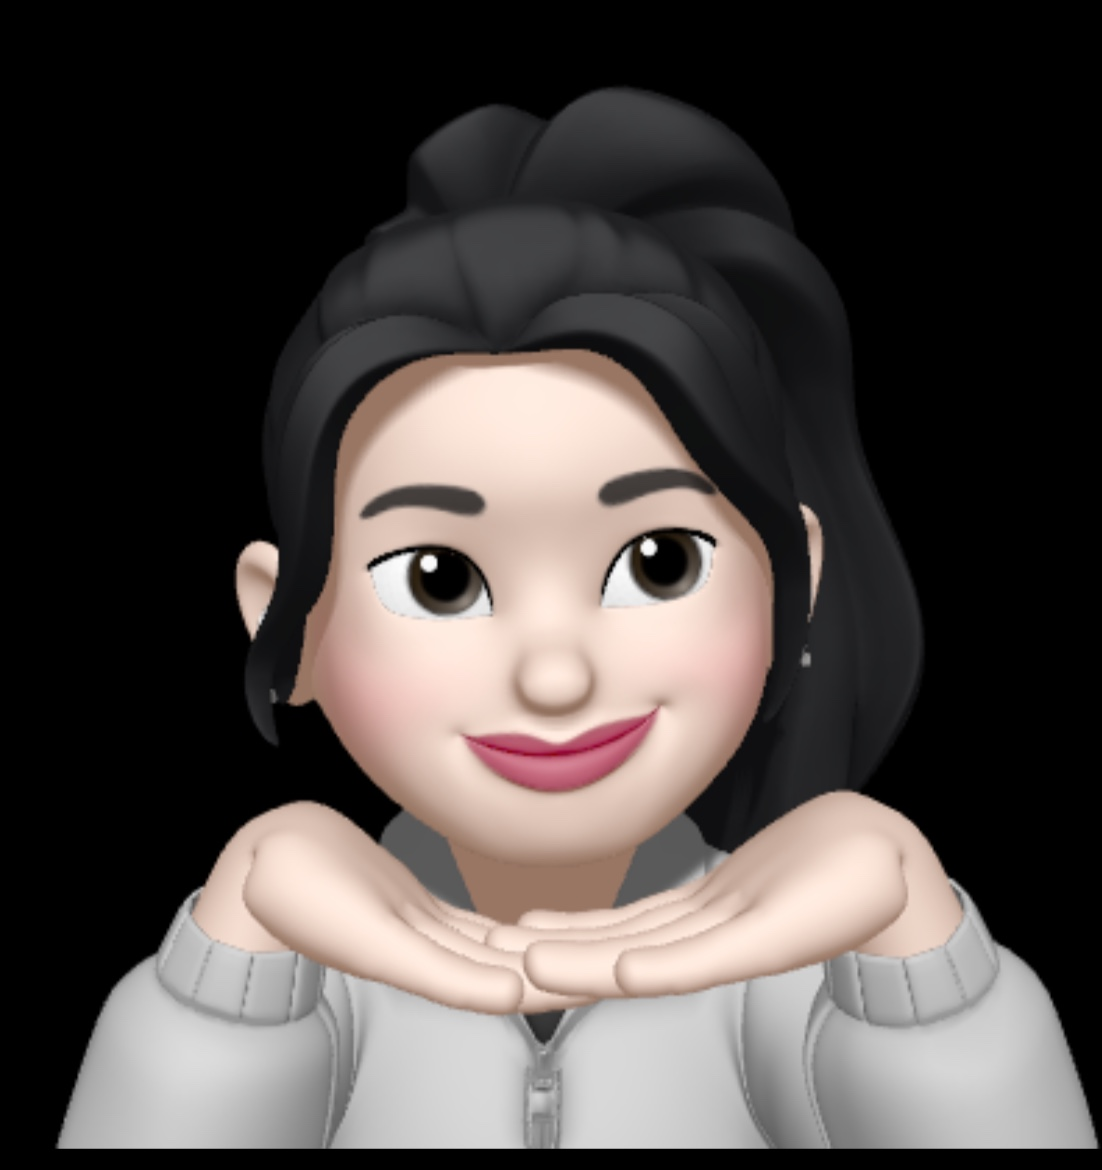
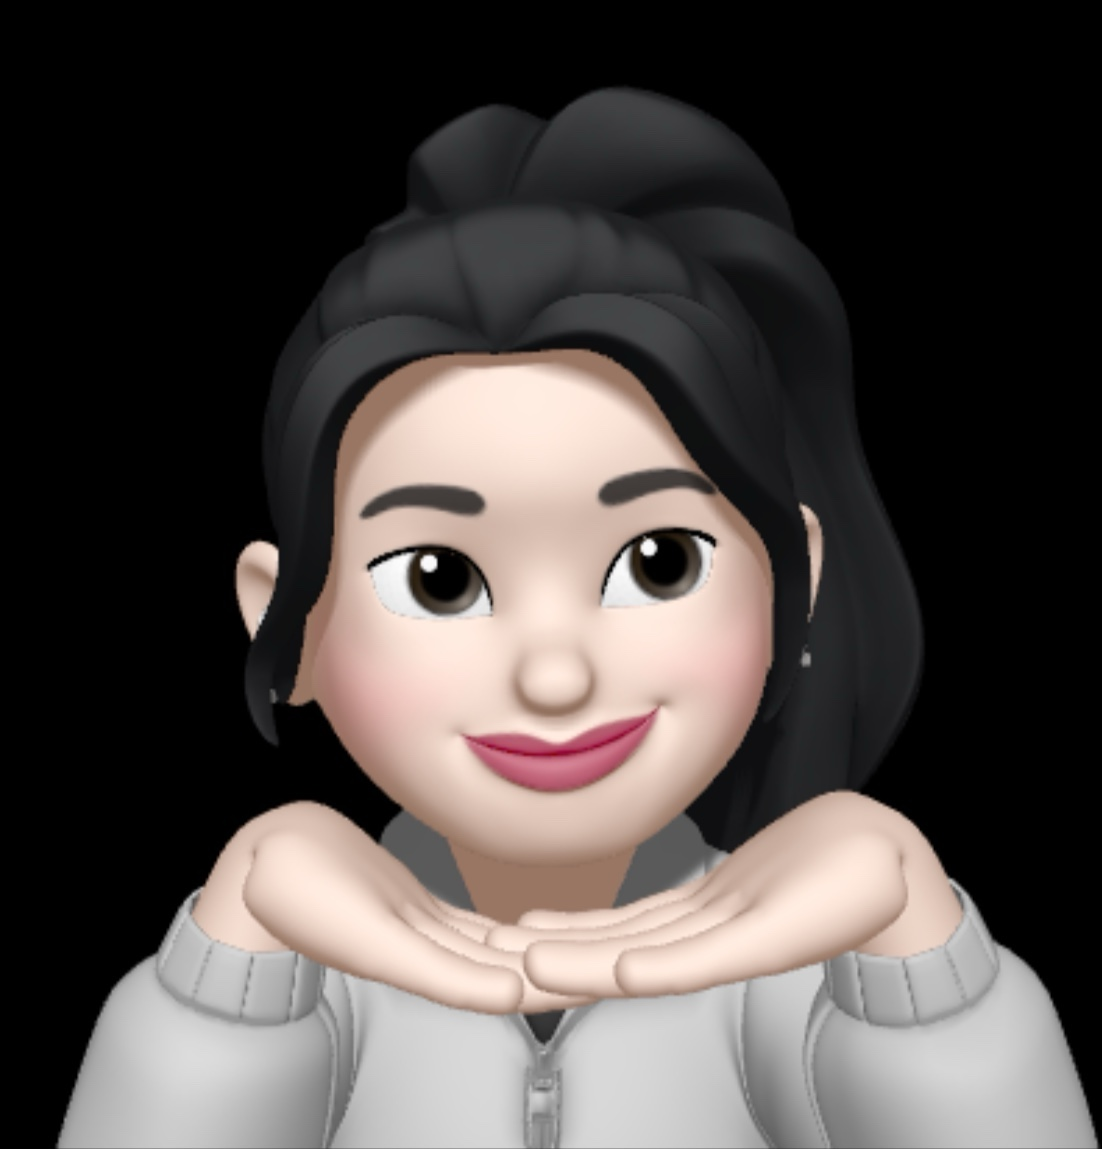
색 수정

diff --git a/sieun/sieun-style.css b/sieun/sieun-style.css
@@ -17,6 +17,8 @@
   * {
     font-family: "SUIT-Regular";
   }
+
+
   
   body {
     padding-top: 150px;
@@ -47,13 +49,18 @@
   
   .list-link {
     margin-left: 70px;
+    text-decoration: none; /* 밑줄 제거 */
+    transition: color 0.3s ease; /* 색상 전환 효과 추가 */
   }
   
   .list-link:hover {
-    color: black;
-    border-bottom: 2px solid black;
-
+    color: #adb4c4;
+    border-bottom: none;
   }
+
+
+
+  
   
   .btn-main {
     padding: 8px 23px;
@@ -77,7 +84,7 @@
     height: 5px;
     bottom: 0;
     left: 0;
-    background-color: #508C9B;
+    background-color: #939185;
   }
   
   .bar-ing {
@@ -88,24 +95,96 @@
     background-color: #201E43;
   }
   
-  /* 소개 섹션 스타일 */
   .intro {
-    margin: 80px 0 80px;
+    margin: 80px 0 165px;
     display: flex;
-    justify-content: center;
+    flex-direction: column; /* 세로 방향으로 배치 */
+    align-items: center; /* 중앙 정렬 */
   }
   
   .intro img {
     width: 230px;
     border-radius: 70%;
   }
+  
+  .emoji-container {
+    position: relative;
+    width: 230px;
+    height: 230px;
+  }
+  
+  .emoji {
+    width: 100%;
+    height: 100%;
+    border-radius: 50%;
+    transition: opacity 0.6s ease; /* 부드러운 전환 효과 */
+  }
+  
+  .emoji-container::before {
+    content: '';
+    position: absolute;
+    top: 0;
+    left: 0;
+    width: 100%;
+    height: 100%;
+    border-radius: 50%;
+    background-image: url('/sieun/img/이모지전환.jpg');
+    background-size: cover; /* 배경 이미지 크기에 맞게 조정 */
+    background-position: center; /* 배경 이미지 위치 조정 */
+    transition: opacity 0.6s ease; /* 부드러운 전환 효과 */
+    opacity: 0; /* 초기 상태에서 숨김 */
+  }
+  
+  .emoji-container:hover .emoji {
+    opacity: 0; /* 호버 시 첫 번째 이미지 숨기기 */
+  }
+  
+  .emoji-container:hover::before {
+    opacity: 1; /* 호버 시 두 번째 이미지 보이기 */
+  }
+
+  .intro_ment span {
+    position: relative;
+
+    font-weight: 600;
+    color: rgb(0, 0, 0);
+    font-family:"SBAggroB";
+    
+  }
+  
+  .intro_ment .two_text {
+    font-family:"SBAggroB";
+    color: #000000; 
+    transition: color 0.3s ease, opacity 0.3s ease; /* 부드러운 전환 효과 */
+  }
+  
+  /* hover 상태 글씨변환 */
+  .emoji-container:hover + .intro_ment .two_text {
+    color: #6d959f;
+    opacity: 1; 
+    animation: animate 3s infinite; 
+    
+  }
+  
+  @keyframes animate {
+    0% {
+      opacity: 1;
+    }
+    50% {
+      opacity: 0;
+    }
+    100% {
+      opacity: 1;
+    }
+  }
 
   .intro_ment {
     text-align: center;
     font-size: 24px; 
-    margin-bottom: 150px; 
+    margin-top: 50px; /* 이모지와 간격 조절 */
     font-family: "SBAggroB";
   }
+
   
   /* About 섹션 스타일 */
   .section-about {
@@ -199,7 +278,14 @@
     display: inline-block;
     padding: 35px;
     font-size: 14px;
+    transition: transform 0.3s; /* 크기 변환 애니메이션 */
   }
+  
+  .link-sns li:hover {
+    transform: scale(1.1); /* 호버 시 요소 크기 확대 */
+  }
+
+
   
   .link-sns li a img {
     margin-bottom: 10px;

diff --git a/sieun/sieun-index.html b/sieun/sieun-index.html
@@ -37,17 +37,18 @@
         </header>
 
         <div class="intro">
-        <a name="info"></a>
-        <img class="emoji" src="/sieun/img/이모지.jpg" alt="프로필 이미지" />
+          <a name="info"></a>
+          <div class="emoji-container">
+            <img src="/sieun/img/이모지.jpg" alt="프로필 이미지" class="emoji" />
+          </div>
+          
 
-        </div>
-
-        <div class="intro_ment">
-            Hello, I'm Jeong Si-eun !<br/>
+          <div class="intro_ment" id="intro-ment">
+            <span class="animation">Hello, I'm <span class="two_text">Jeong Si-eun</span> !</span><br/>
             <br/>
             Back-end Developer
+          </div>
         </div>
-
       </section>
 
       <section class="section-about">
